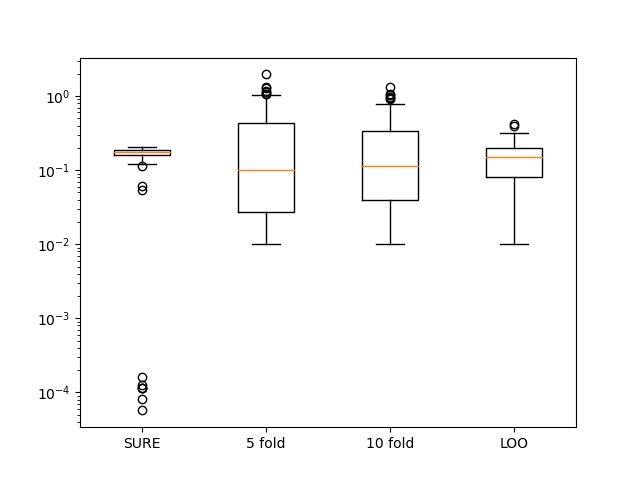
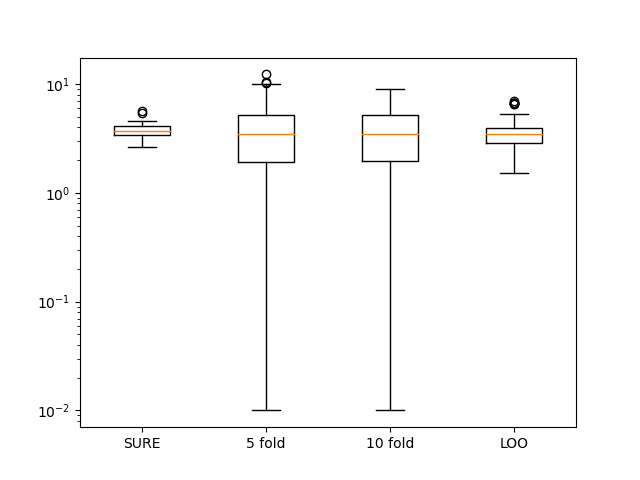
made collinearity stronger

diff --git a/code/test_almost_collinear.py b/code/test_almost_collinear.py
@@ -17,14 +17,14 @@ import sys
 np.random.seed(1)
 sigma = 1.
 n = 100
-d = 3
-X = np.random.normal(loc=[-5., -6.], scale=[1., 1.],  size=(n, d-1))
+d = 5
+X = np.random.normal(loc=[-5., -6., 3., 2.], scale=[1., 1., 1., 1.],  size=(n, d-1))
 X_collinear = -5 * X[:,1] + np.random.normal(scale = 0.01, size=n)
 X = np.hstack((X, X_collinear.reshape(n, 1)))
 scaler = StandardScaler()
 scaler.fit(X)
 X = scaler.transform(X)
-beta = np.array([2., 3., -1.]).reshape(d, 1)
+beta = np.array([0., 3., -1., 0., 2.]).reshape(d, 1)
 y = (X @ beta).ravel() + np.random.normal(scale = sigma, size=n)
 
 test_errors = np.zeros((100,5))
@@ -40,7 +40,7 @@ for i in np.arange(100):
 
     # beta hat with optimized regularization weight
     sr = SURE_ridge(X_train, y_train, sigma)
-    l = sr.solve(0., 0.05, 20000)
+    l = sr.solve(0., 0.05, 30000)
     print(l)
     beta_hat_l = sr.beta_hat(l)
     print(beta_hat_l)
